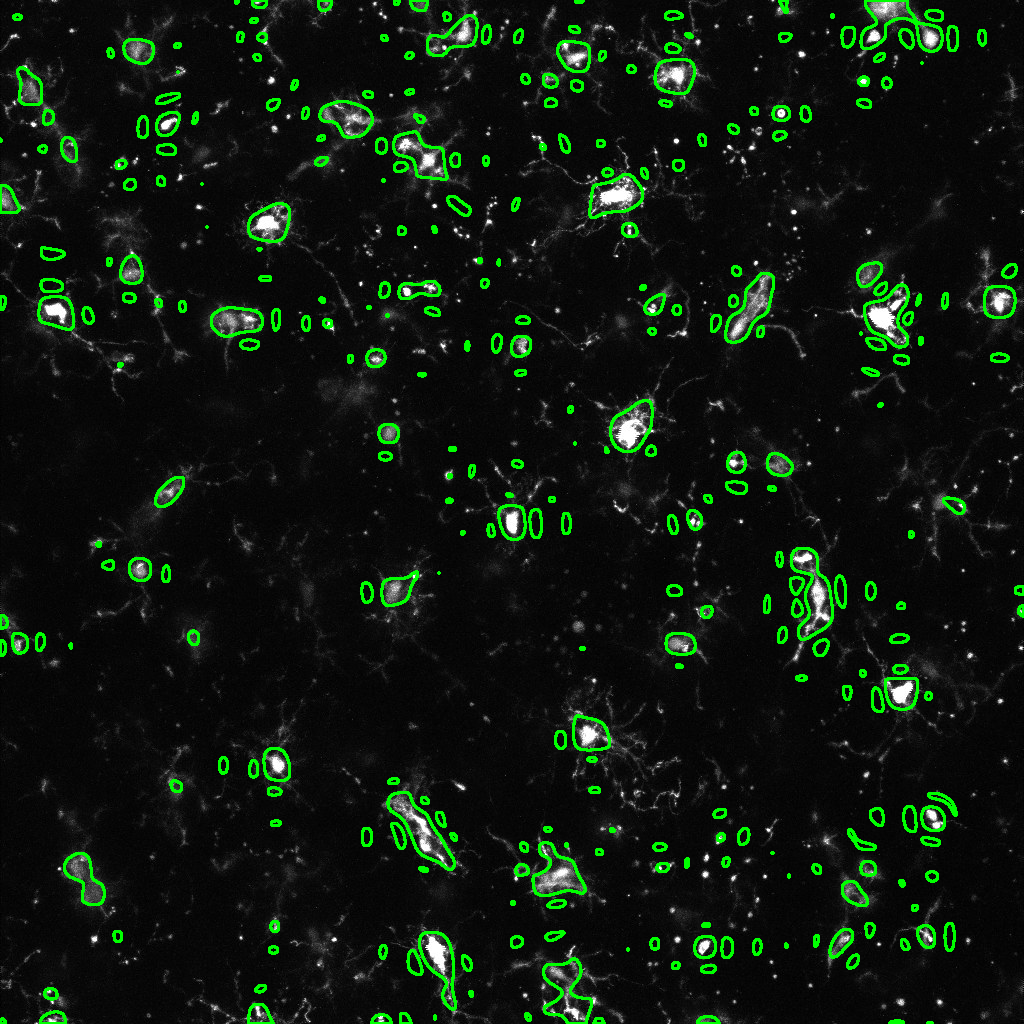
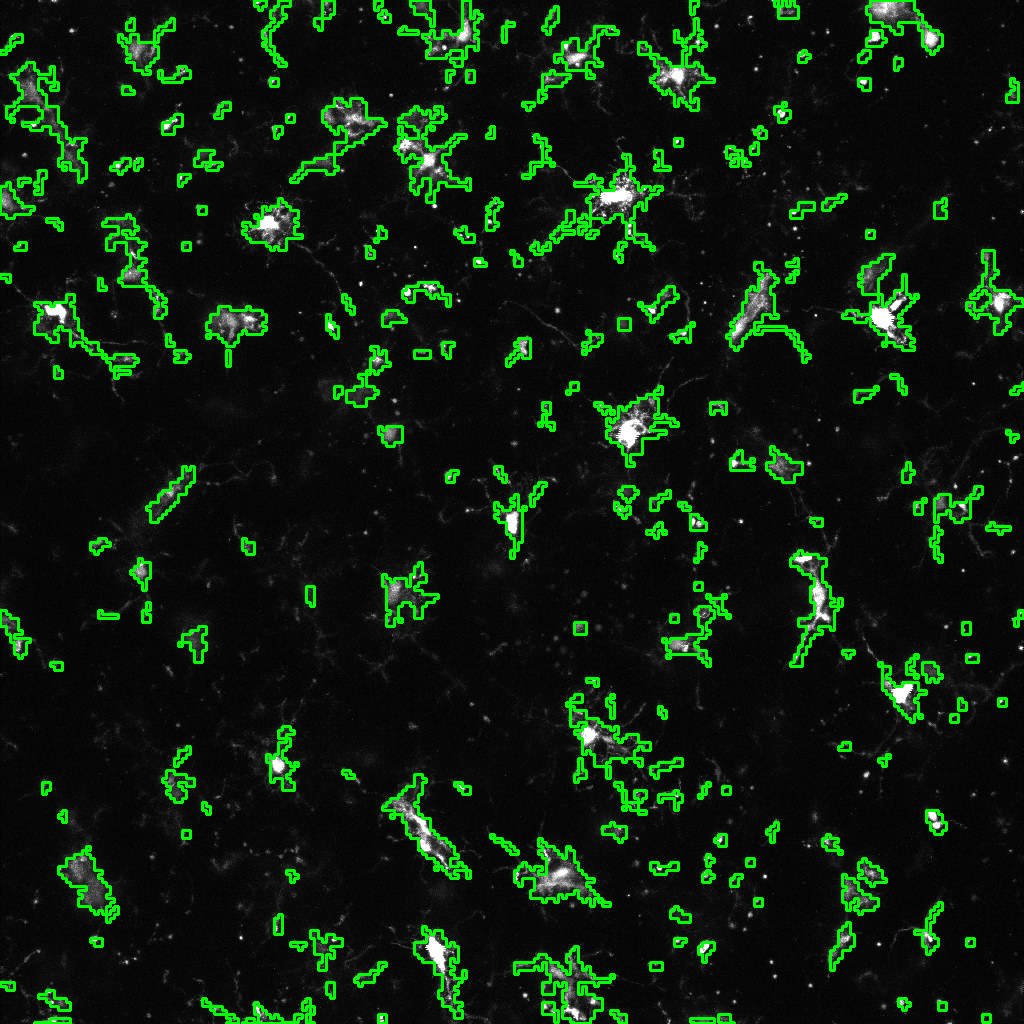
Developing cell boundary identification for microglia cells, code is written in MAIN_microglia.py

diff --git a/Programming/MAIN_ microglia.py b/Programming/MAIN_ microglia.py
@@ -59,7 +59,7 @@ def image_import(folder_path, image_name):
 
     display_image('Original Image', imArray)
 
-    #image_info('Original_Image', imArray)
+    image_info('Original Image', imArray)
 
 
     return imArray
@@ -80,7 +80,7 @@ def gray_conversion(imArray, image_name):
 
     display_image('Gray 8-bit Integer Image', imArrayG)
     
-    #image_info('Gray_8_bit_Image', imArrayG)
+    image_info('Gray_8_bit_Image', imArrayG)
 
     output_path = 'Programming/edited_images/' + image_name + '_gray.png'
     cv2.imwrite(output_path, imArrayG)
@@ -225,14 +225,16 @@ def binary_thresholding(prepared_image):
     Returns:
         thresh (array): thresholded image array
     """
-    #threshold = prepared_image.mean() - 1/2 * prepared_image.std() - 2 # threshold value
-    threshold = 48
+    threshold = 1/2 * prepared_image.mean() + prepared_image.std() - 2 # threshold value
+    # threshold = 37
     _, thresh = cv2.threshold(prepared_image, threshold, 255, cv2.THRESH_BINARY) # Pixel value > threshold set to 255, then inverted as cv2.findContours() requires white objects on black background
 
     print('Simple Threshold Value: ' + str(threshold))
 
     # Display thresholded image
     display_image('Binary Thresholded Image', thresh)
+
+    image_info('Binary_Thresholded_Image', thresh)
 
     return thresh
 
@@ -249,7 +251,7 @@ def otsu_thresholding(prepared_image):
     print('Mean: ' + str(prepared_image.mean()))
     print('Standard Deviation: ' + str(prepared_image.std()))
 
-    threshold, otsu = cv2.threshold(prepared_image, 0, 255, cv2.THRESH_BINARY_INV + cv2.THRESH_OTSU)
+    threshold, otsu = cv2.threshold(prepared_image, 0, 255, cv2.THRESH_BINARY + cv2.THRESH_OTSU)
 
     # Output the threshold value
     print('Otsu Threshold Value: ' + str(threshold))
@@ -262,15 +264,15 @@ def otsu_thresholding(prepared_image):
 
 def cell_identification(binary_image, imArrayG, image_name):
     # Morphological operations
-    # kernel_open = np.ones((25, 25), np.uint8) # kernel with all ones
-    # kernel_dilation = np.ones((16, 16), np.uint8)
-    # kernel_close = np.ones((25, 25), np.uint8)
+    kernel_open = np.ones((2, 2), np.uint8) # kernel with all ones
+    kernel_dilation = np.ones((2, 2), np.uint8)
+    kernel_close = np.ones((2, 2), np.uint8)
 
-    # morphed = cv2.morphologyEx(binary_image, cv2.MORPH_OPEN, kernel_open) # Removes small white regions (noise in background)
-    # morphed = cv2.dilate(morphed, kernel_dilation, iterations = 1) # Increases white regions (joins broken cells)
-    # morphed = cv2.morphologyEx(morphed, cv2.MORPH_CLOSE, kernel_close) # Removes small black holes (noise in cells)
+    morphed = cv2.morphologyEx(binary_image, cv2.MORPH_OPEN, kernel_open) # Removes small white regions (noise in background)
+    morphed = cv2.dilate(morphed, kernel_dilation, iterations = 1) # Increases white regions (joins broken cells)
+    morphed = cv2.morphologyEx(morphed, cv2.MORPH_CLOSE, kernel_close) # Removes small black holes (noise in cells)
     
-    morphed = binary_image
+    #morphed = binary_image
     display_image('Morphed Image', morphed)
     
     # Contour detection
@@ -281,11 +283,11 @@ def cell_identification(binary_image, imArrayG, image_name):
     result = cv2.cvtColor(result, cv2.COLOR_GRAY2BGR) # ***Only to display contour in colour
 
     cv2.drawContours(result, contours, -1, (0, 255, 0), 2)
-    #display_image('Contours on Grayscale Image', result)
+    display_image('Contours on Grayscale Image', result)
 
 
     # Minimum contour area threshold - removes small contours
-    min_contour_area = 00
+    min_contour_area = 50
 
     # Filter contours based on area
     filtered_contours = []
@@ -300,7 +302,7 @@ def cell_identification(binary_image, imArrayG, image_name):
     # Draw contours and number them
     for i in range(len(filtered_contours)):
         cv2.drawContours(result_filtered, filtered_contours, i, (0, 255, 0), 2)
-        #cv2.putText(result_filtered, str(i+1), tuple(filtered_contours[i][0][0]), cv2.FONT_HERSHEY_COMPLEX, 1, (0, 0, 255), 3)    
+        #cv2.putText(result_filtered, str(i+1), tuple(filtered_contours[i][0][0]), cv2.FONT_HERSHEY_COMPLEX, 1, (0, 0, 255), 1)    
 
         # Output the contours area
         # print('Contour ' + str(i+1) + ' area = ' + str(cv2.contourArea(filtered_contours[i])))
@@ -327,8 +329,8 @@ def main():
     # Convert image to grayscale and convert to 8-bit integer
     imArrayG = gray_conversion(imArray, image_name)
 
-    n = 4
-    wavelet = 'coif17'
+    n = 2
+    wavelet = 'haar'
     
     # Complete DWT
     coeffs = discrete_wavelet_transform(imArrayG, n, wavelet)
@@ -346,7 +348,7 @@ def main():
 
 
     # Otsu's thresholding
-    # binary_image_otsu = otsu_thresholding(prepared_image)
+    #binary_image_otsu = otsu_thresholding(prepared_image)
 
     # Morphological operations and contour detection (cell identification)
     result_filtered, filtered_contours = cell_identification(binary_image_simple, imArrayG, image_name)
